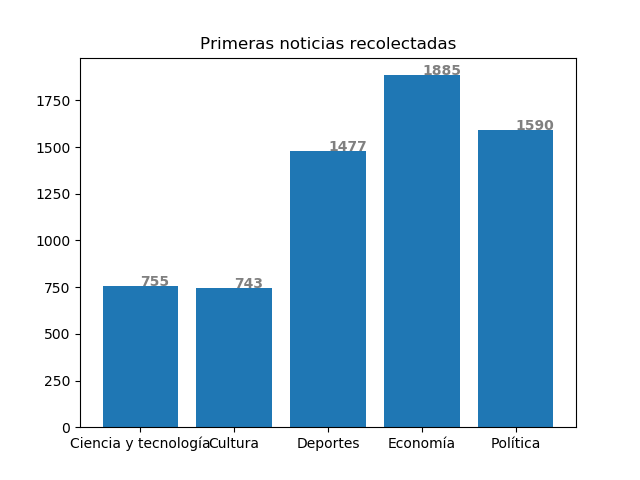
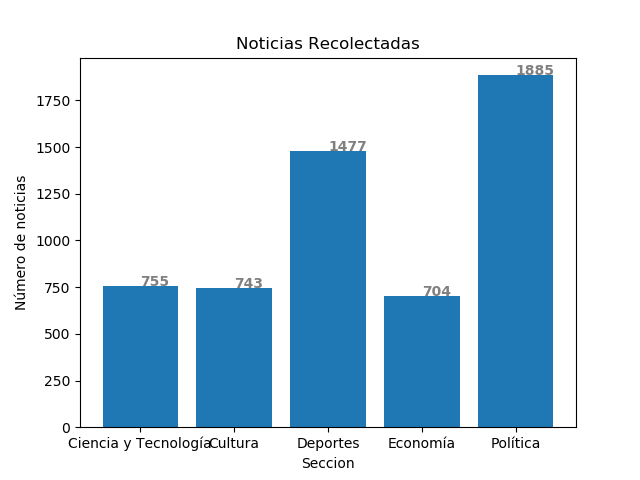
Capitulo 5.1 en espera de revision

diff --git a/Analisis/DocumentoAnalisis/Capitulos/Capitulo5-ImplementacionPruebas/1.Proceso-Recoleccion.tex b/Analisis/DocumentoAnalisis/Capitulos/Capitulo5-ImplementacionPruebas/1.Proceso-Recoleccion.tex
@@ -1,67 +1,129 @@
 \section{Recolección}
 
 %-------------------------------Recolección----------------------------------------------%
-%-----------------------------Chcecar TT1------------------------
 
-El proceso de recolección es parte fundamental del presente trabajo terminal, ya que permitió conformar el corpus necesario para llevar a cabo la etapa de entrenamiento, este proceso se llevo a cabo por etapas.
+El proceso de recolección es parte fundamental del presente trabajo terminal, ya que permitió conformar el corpus utilizado en la etapa de entrenamiento, la Figura \ref{fig:etapRecoleccion} muestra las etapas que se desarrollaron durante el proceso de recolección.\\
 
-\begin{itemize}
-	\item Seleccionar los sitios web
-	\item Información a recolectar
-	\item Análisis del sitio web
-	\item Proceso de recolección
-\end{itemize}
+\begin{figure}[H]
+	\centering
+	\includegraphics[scale=.30]{imagenes/Capitulo5/etapasRecoleccion.png}
+	\caption{Etapas de la recolección}
+	\label{fig:etapRecoleccion}
+\end{figure}
 
 \subsection{Selección de sitios web}
 
 El sitio web El Economista\footnote{https://www.eleconomista.com.mx/} contiene una sección llamada 
-\textbf{Ranking de Medios Nativos Digitales}\footnote{https://www.eleconomista.com.mx/Ranking-de-Medios-Nativos-Digitales}, 
-el cual muestra las estadísticas que realiza mes con mes acerca de los sitios de noticias web más consultados como se muestra en la Figura \textbf{\ref{fig:rank}}
+\textbf{Ranking de Medios Nativos Digitales}\footnote{https://www.eleconomista.com.mx/Ranking-de-Medios-Nativos-Digitales}, el cual muestra las estadísticas que realiza mes con mes acerca de los sitios de noticias web más consultados como se muestra en la Figura \ref{fig:rank}\\
+
 \begin{figure}[H]
   \centering
-  \includegraphics[scale=.28]{imagenes/Capitulo5/ranking.png}
+  \includegraphics[scale=.32]{imagenes/Capitulo5/ranking.png}
   \caption{Ranking de sitios de noticias del periódo de enero del 2018 a enero del 2019.}
   \label{fig:rank}
 \end{figure}
 
-Con base en la Figura  se han seleccionado los diarios Aristegui Noticias, El Economista, La Jornada, La Prensa, Proceso, Sopitas y TV Azteca para recolectar noticias.
-
 \Tlabel{c5:sitios}
+Con base en la Figura \ref{fig:rank} se han seleccionado los diarios Aristegui Noticias, El Economista, La Jornada, La Prensa, Proceso, Sopitas y TV Azteca para recolectar noticias. Los sitios organizan las noticias por secciones, lo cual permite una búsqueda más rápida de la información, la Tabla \textbf{\ref{tabla:sitios}}. muestra el análisis realizado a las secciones contenidas en los sitios seleccionados.
+\\
+\begin{table}[H]
+    \centering
+    \resizebox{\columnwidth}{!}{%
+    \begin{tabular}[H]{|c|c|c|c|c|c|c|c|}
 
-\subsection{Información recolectada}
+ \multicolumn{1}{| >{\columncolor{myBlueChapter}}c|}{ \textcolor{myWhite}{\textbf{Sección}} }
+&\multicolumn{1}{| >{\columncolor{myBlueChapter}}c|}{ \textcolor{myWhite}{\textbf{Aristegui}} }
+&\multicolumn{1}{| >{\columncolor{myBlueChapter}}c|}{ \textcolor{myWhite}{\textbf{El}} }
+&\multicolumn{1}{| >{\columncolor{myBlueChapter}}c|}{ \textcolor{myWhite}{\textbf{La}} }
+&\multicolumn{1}{| >{\columncolor{myBlueChapter}}c|}{ \textcolor{myWhite}{\textbf{La}} }
+&\multicolumn{1}{| >{\columncolor{myBlueChapter}}c|}{ \textcolor{myWhite}{\textbf{Proceso}} }
+&\multicolumn{1}{| >{\columncolor{myBlueChapter}}c|}{ \textcolor{myWhite}{\textbf{Sopitas}} }
+&\multicolumn{1}{| >{\columncolor{myBlueChapter}}c|}{ \textcolor{myWhite}{\textbf{Azteca}} }
+  \\ \cline{1-8}
+%---------------------------------------------------------------------------------------%
+ \multicolumn{1}{| >{\columncolor{myBlueChapter}}c|}{ }
+&\multicolumn{1}{| >{\columncolor{myBlueChapter}}c|}{ \textcolor{myWhite}{\textbf{Noticias}} }
+&\multicolumn{1}{| >{\columncolor{myBlueChapter}}c|}{ \textcolor{myWhite}{\textbf{Economista}} }
+&\multicolumn{1}{| >{\columncolor{myBlueChapter}}c|}{ \textcolor{myWhite}{\textbf{Jornada}} }
+&\multicolumn{1}{| >{\columncolor{myBlueChapter}}c|}{ \textcolor{myWhite}{\textbf{Prensa}} }
+&\multicolumn{1}{| >{\columncolor{myBlueChapter}}c|}{ }
+&\multicolumn{1}{| >{\columncolor{myBlueChapter}}c|}{ }
+&\multicolumn{1}{| >{\columncolor{myBlueChapter}}c|}{ \textcolor{myWhite}{\textbf{Noticias}} }
+\\ \cline{1-8}
 
-Se llevó a cabo un análisis acerca de la información que contiene cada una de las noticias y con base en ello se determinó recolectar la siguiente información:
+%---------------------------------------------------------------------------------------%
 
-\begin{itemize}
-	\item URL de la noticia
-	\item Título
-	\item Fecha
-	\item Sección
-	\item Autor
-	\item Descripción
-	\item Noticia
-\end{itemize}
+        Nacional & México & Urbes y & - & México & Nacional & Noticias & -\\ 
+         &  & Estados & & & & &\\
+        \hline
+%---------------------------------------------------------------------------------------%
 
-Cabe destacar que no toda la información recuperada fue utilizada en el proceso de entrenamiento, sin embargo se considerarón los puntos anteriores ya que la mayor parte de las noticias cuentan con esa información.
-%-----------------------------Chcecar TT1------------------------
+        Internacional & Mundo & The Washington & Mundo & Mundo & Internacional & - & Internacional\\
+         & & Post & & & & &\\
+        \hline
+%---------------------------------------------------------------------------------------%
+
+        Ciudad & - & Urbes y & CDMX & Metrópoli & La Capital& - & -\\ 
+         &  & Estados & & & & & \\
+        \hline
+%---------------------------------------------------------------------------------------%
+
+        Estados & México & Urbes y & Estados & República & Estados & - & Estados\\ 
+         &  & Estados & & & & & \\
+        \hline
+%---------------------------------------------------------------------------------------%
+
+        Economía & Economía & Valores y & Economía & - & - & - & Finanzas\\ 
+         &  & Dinero & & & & & \\
+        \hline
+%---------------------------------------------------------------------------------------%
+
+        Deportes & Deportes & DxT & Deportes & Deportes & Deportes & Deportes & Deportes\\ 
+        \hline
+%---------------------------------------------------------------------------------------%
+
+        Espectáculos & - & - & Espectáculos & Gossip & Miscelánea &  En el show & Entretenimiento\\ 
+        \hline
+%---------------------------------------------------------------------------------------%
+
+        Cultura & - & Artes, Ideas & Cultura & - & Cultura & - & -\\ 
+         &  & Gente & & & & &\\ 
+        \hline
+%---------------------------------------------------------------------------------------%
+
+        Política & Poderes & - & Política & - & Política & - & Política\\ 
+        \hline
+%---------------------------------------------------------------------------------------%
+
+        Ciencia y & - & Política y & Tecnología & - & Tecnología  & Geek & Geek\\ 
+        tecnología &  & Sociedad & & & & &  \\ 
+        \hline        
+
+    \end{tabular}%
+}
+\caption[Secciones de los sitios web]{Secciones existentes en los sitios web}
+\label{tabla:sitios}
+\end{table}
 
 %------------------------------------------- Listo
 \subsection{Análisis de sitios web}
 
-Una vez definida la información requerida de cada noticia se realizó un análisis sobre la estructura HTML de cada sitio web, con el fin de realizar expresiones \textit{XPath} quien permitie recorrer y procesar un documento XML, dado que cada sitio web cuenta con una estructura diferente, ha sido necesario realizar el análisis individual. Cabe mencionar que existen sitios los cuales realizan actualizaciones a su página, por esta razón cada dos meses se analizaban, con el fin de verificar que la estructura XML no cambiara.
-\\
-Una expresión \textit{XPath} de ruta permite buscar y seleccionar los distintos nodos de un documento XML(ver). En el siguiente Cuadro \ref{box:xmlEjemplo} se muestra un ejemplo con los elementos de una nota, los cuales son: \textbf{para} \textbf{de} \textbf{titulo} \textbf{texto}, en un documento XML estos son los nodos que conforman una nota.\\
+Una vez definida la información requerida de cada noticia se realizó un análisis sobre la estructura XML (\textit{Extensible Markup Language}), por sus siglas en inglés, con el fin de realizar expresiones \textit{XPath} que permiten recorrer y procesar un documento XML, dado que cada sitio web cuenta con una estructura diferente, ha sido necesario realizar el análisis individual. Cabe mencionar que existen sitios los cuales realizan actualizaciones a su página, por esta razón cada dos meses se analizaban, con el fin de verificar que la estructura XML no cambiara.\\
 
-\begin{mygraybox}[label={box:xmlEjemplo}]{Documento XML} 
-<nota>\\
-	<para>Daniel</para>\\
-	<de>Andres</de>\\
-	<titulo>Recordatorio</titulo>\\
-	<texto>Recuerda despertar temprano.</texto>\\
+Una expresión \textit{XPath} de ruta permite buscar y seleccionar los distintos nodos de un documento XML(ver). En el siguiente Cuadro \ref{box:xmlEjemplo} se muestra un ejemplo con los elementos de una nota, los cuales son: \textbf{para}, \textbf{de}, \textbf{titulo}, \textbf{texto}, en un documento XML estos son los nodos que conforman una nota.\\
+
+\begin{mygraybox}[label={box:xmlEjemplo}]{Documento XML}
+\begin{tabbing}
+<nota> \= \\\kill
+\>	<para>Daniel</para>\\
+\>	<de>Andres</de>\\
+\>	<titulo>Recordatorio</titulo>\\
+\>	<texto>Recuerda despertar temprano.</texto>\\
 </nota>
+\end{tabbing}
 \end{mygraybox}
 
-La expresión \textit{XPath} que permite extraer el contenido de la etiqueta \textbf{<texto> </texto>} se muestra en el Cuadro \ref{box:xpathEjemplo}: 
+La expresión \textit{XPath} que permite extraer el contenido de la etiqueta \textbf{<texto> </texto>} se muestra en el Cuadro \ref{box:xpathEjemplo}: \\
 
 \begin{mygraybox}[label={box:xpathEjemplo}]{Expresión XPath} 
 \textbf{/nota/texto/text()}
@@ -70,10 +132,9 @@ La expresión \textit{XPath} que permite extraer el contenido de la etiqueta \te
 Para cada sitio web se crearon expresiones \textit{XPath} para recolectar el contenido.
 
 %------------------------------------------- Listo
-\subsection{Creación de recolectores}
+\subsection{Creación de recolector}
 
 Como se explicó en el capítulo 3 (ver\ref{c3:Crawler}) un \textit{Crawler} te permite descargar información de una página web, como se muestra en la Figura \ref{Fig:recoleccion}. La implementación en el trabajo terminal ha requerido diseñar 7 recolectores, uno por cada sitio web (ver \Tref{c5:sitios}{sitios web}). \\
-
 
 \begin{figure}[H]
 	\centering
@@ -82,7 +143,42 @@ Como se explicó en el capítulo 3 (ver\ref{c3:Crawler}) un \textit{Crawler} te 
 	\label{Fig:recoleccion}
 \end{figure}
 
-Para el desarrollo se ha utilizado el lenguaje de programación \textbf{Python3}, en conjunto con la librería \textbf{scrapycrawl}. Cabe destacar que las noticias recolectadas se almacenaron en un archivo CSV (ver\ref{}) con la estructura que se muestra en la Tabla \ref{tab:csv}, donde la primera fila (Encabezado) define los elementos de este archivo, además las filas consecuentes representan el contenido recolectado de cada noticia.\\
+El desarrollo del presente trabajo terminal se ha realizado en sistema operativo \textit{Linux} en su distribución Ubuntu, paa realizar la creación de los recolectores se ha utilizado el lenguaje de programación \textbf{Python 3}\footnote{https://www.python.org/}, en conjunto con \textbf{Scrapy}\footnote{https://scrapy.org/}, el cual es un framework que permite la extracción de información de sitios web. 
+\\
+El siguiente Cuadro \ref{box:libIns}, muestra los comandos utilizados para instalar las librerías utilizadas.\\
+\begin{mygraybox}[label={box:libIns}]{Comandos para instalar librerías utilizadas}
+\begin{verbatim}
+$ sudo apt-get install python3.6
+$ pip install Scrapy
+\end{verbatim}
+\end{mygraybox}
+
+La información que ha sido recuperada de las noticias se muestra a continuación:
+\begin{itemize}
+	\item \textbf{url}: La dirección web donde se encuentra localizada la noticia 
+	\item \textbf{título}: Encabezado de la noticia recolectada
+	\item \textbf{autor}: Es el nombre de la persona que redacto la noticia o el nombre de la editorial
+	\item \textbf{fecha}: Es la fecha en la cual la noticia ha sido publicada
+	\item \textbf{descripción}: Es una idea general del contenido de la noticia. Cabe mencionar que no todas las noticias cuentan con una descripción
+	\item \textbf{noticia}: Es la redacción realizada por el autor acerca de la noticia. Es de relevancia mencionar que este elemento más importante de los artículos decargados 
+\end{itemize}
+
+Cada uno de los recolectores contenia expresiones \textit{XPath} que permitían recolectar la información de cada noticia, el Cuadro \ref{box:crawlerEjemplo} muestra un ejemplo de las expresiones \textit{XPath} utilizadas para recolectar noticias del sitio web Aristegui Noticias\footnote{https://aristeguinoticias.com/}\\
+
+\begin{mygraybox}[label={box:crawlerEjemplo}]{Ejemplo de expresiones \textit{XPath} del sitio Aristegui Noticias}
+\begin{small}
+\begin{verbatim}
+url= url
+titulo = //div[@class="class_subtitular"]/h1/text()
+autor = //div[@class="share_nom"]/text()
+fecha = //div[@class="share_publicado"]/text()
+descripcion = //div[@class="class_text2"]/text())
+noticia = //div[@class="class_text"]/p/child::node()/text()
+\end{verbatim}
+\end{small}
+\end{mygraybox}
+
+Cabe destacar que las noticias recolectadas se almacenaron en un archivo CSV (ver\ref{}) con la estructura que se muestra en la Tabla \ref{tab:csv}, donde la primera fila (Encabezado) define los elementos de este archivo, además las filas consecuentes representan el contenido recolectado de cada noticia.\\
 
 %\begin{mygraybox}[label={box:csv}]{Encabezado de un archivo CSV}
 \begin{table}[H]
@@ -103,18 +199,7 @@ url ejemplo 2& título ejemplo 2& autor ejemplo 2& fecha ejemplo 2& descripción
 \end{table}
 %\end{mygraybox}
 
-donde :
-\begin{itemize}
-	\item \textbf{url}: La dirección web donde se encuentra localizada la noticia 
-	\item \textbf{título}: Encabezado de la noticia recolectada
-	\item \textbf{autor}: Es el nombre de la persona que redacto la noticia o el nombre de la editorial
-	\item \textbf{fecha}: Es la fecha en la cual la noticia ha sido publicada
-	\item \textbf{descripción}: Es una idea general del contenido de la noticia. Cabe mencionar que no todas las noticias cuentan con una descripción
-	\item \textbf{noticia}: Es la redacción realizada por el autor acerca de la noticia. Es de relevancia mencionar que este elemento más importante de los artículos decargados 
-\end{itemize}
-
-\subsection{Proceso de recolección de noticias}
-
+\subsection{Recolección de noticias}
 
 Para el desarrollo de esta etapa, se recolectaron noticias de las secciones : \textbf{ciencia y tecnología}, \textbf{cultura}, \textbf{deportes}, \textbf{economía} y \textbf{política}, de los sitios web \textbf{Aristegui Noticias}, \textbf{El Economista}, \textbf{La Jornada}, \textbf{La Prensa}, \textbf{Proceso}, \textbf{Sopitas} y \textbf{TV Azteca}, durante el periodo de julio a septiembre cada cuatro días, con el fin de no tener noticias repetidas. El almacenamiento de las noticias se realizó en un directorio por sección, dentro de cada uno de estos se dividian las noticias recolectadas por sitio web. 
 \\
@@ -128,67 +213,71 @@ Una vez finalizada la primera etapa de recolección, los resultados obtenidos po
 	\label{Fig:notseccionV1}
 \end{figure}
 
-Cabe destacar que el número de noticias no se encontraba balanceado debido a que no exite un gran número de sitios que publiquen noticias de cultura, por ello se decidió continuar con el proceso de recolección de noticias, con el fin de balancear el corpus y así los resultados obtenidos en la práctica mejoraron.
+Cabe destacar que el número de noticias recolectadas durante el primer corte, no se encontraba balanceado, por ello se decidió continuar con el proceso de recolección de noticias, con el fin de balancear el corpus.
 \\
-Una vez finalizada la segunda etapa de recolección el número de noticias se muestra en la Figura \ref{Fig:notseccion}
+Una vez finalizada la segunda etapa de recolección el número de noticias se muestra en la Figura \ref{Fig:notseccion} 
 
 \begin{figure}[H]
 	\centering
-	\includegraphics[scale=.6]{imagenes/Capitulo5/noticiasPorSeccion.png}
-	\caption{Numero total de noticias recolectadas por sección.}
+	\includegraphics[scale=.6]{imagenes/Capitulo5/noticiasPorSeccionV2.png}
+	\caption{Noticias recolectadas al finalizar el segundo corte.}
 	\label{Fig:notseccion}
 \end{figure}
 
-Los noticias recuperadas por cada sitio web, se muestran en las siguientes Figuras.
-\\
+Los resultados que obtuvimos por sitio web se muestran en la Figura \ref{Fig:notPorSit} 
 
 \begin{figure}[H]
 	\centering
-	\includegraphics[scale=.45]{imagenes/Capitulo5/aristegui.png}
-	\caption{Total de noticias recolectadas del sitio web de Aristegui Noticias}
-	\label{Fig:notsitioaristegui}
+	\includegraphics[scale=.6]{imagenes/Capitulo5/noticiasPorSitio.png}
+	\caption{Noticias recolectadas por sitio web al finalizar el segundo corte}
+	\label{Fig:notPorSit}
 \end{figure}
 
-\begin{figure}[H]
-	\centering
-	\includegraphics[scale=.45]{imagenes/Capitulo5/azteca.png}
-	\caption{Total de noticias recolectadas del sitio web de Azteca Noticias}
-	\label{Fig:notsitioazteca}
-\end{figure}
 
-\begin{figure}[H]
-	\centering
-	\includegraphics[scale=.45]{imagenes/Capitulo5/economista.png}
-	\caption{Total de noticias recolectadas del sitio web de El Economista}
-	\label{Fig:notsitioeconomista}
-\end{figure}
+Los noticias recuperadas por cada sitio web, se muestran en la siguiente Tabla \ref{tabla:sitios}.
 
-\begin{figure}[H]
-	\centering
-	\includegraphics[scale=.45]{imagenes/Capitulo5/jornada.png}
-	\caption{Total de noticias recolectadas del sitio web de La Jornada}
-	\label{Fig:notsitiojornada}
-\end{figure}
+\begin{table}[H]
+\begin{tabular}{|l|l|l|}
+\hline
+Sitio                               & Sección              & Número de Noticias \\ \hline
+\multirow{5}{*}{Aristegui Noticias} & Ciencia y Tecnología & 99                 \\ \cline{2-3} 
+                                    & Cultura              & 179                \\ \cline{2-3} 
+                                    & Deportes             & 308                \\ \cline{2-3} 
+                                    & Economía             & 161                \\ \cline{2-3} 
+                                    & Política             & 248                \\ \hline
+\multirow{5}{*}{Azteca Noticias}    & Ciencia y Tecnología & 986                \\ \cline{2-3} 
+                                    & Cultura              & 0                  \\ \cline{2-3} 
+                                    & Deportes             & 280                \\ \cline{2-3} 
+                                    & Economía             & 77                 \\ \cline{2-3} 
+                                    & Política             & 350                \\ \hline
+\multirow{5}{*}{El Economista}      & Ciencia y Tecnología & 18                 \\ \cline{2-3} 
+                                    & Cultura              & 267                \\ \cline{2-3} 
+                                    & Deportes             & 214                \\ \cline{2-3} 
+                                    & Economía             & 201                \\ \cline{2-3} 
+                                    & Política             & 236                \\ \hline
+\multirow{5}{*}{La Jornada}         & Ciencia y Tecnología & 4                  \\ \cline{2-3} 
+                                    & Cultura              & 424                \\ \cline{2-3} 
+                                    & Deportes             & 284                \\ \cline{2-3} 
+                                    & Economía             & 512                \\ \cline{2-3} 
+                                    & Política             & 659                \\ \hline
+\multirow{5}{*}{La Prensa}          & Ciencia y Tecnología & 68                 \\ \cline{2-3} 
+                                    & Cultura              & 90                 \\ \cline{2-3} 
+                                    & Deportes             & 93                 \\ \cline{2-3} 
+                                    & Economía             & 118                \\ \cline{2-3} 
+                                    & Política             & 77                 \\ \hline
+\multirow{5}{*}{Proceso}            & Ciencia y Tecnología & 65                 \\ \cline{2-3} 
+                                    & Cultura              & 13                 \\ \cline{2-3} 
+                                    & Deportes             & 335                \\ \cline{2-3} 
+                                    & Economía             & 0                  \\ \cline{2-3} 
+                                    & Política             & 112                \\ \hline
+\multirow{5}{*}{Sopitas}            & Ciencia y Tecnología & 549                \\ \cline{2-3} 
+                                    & Cultura              & 265                \\ \cline{2-3} 
+                                    & Deportes             & 171                \\ \cline{2-3} 
+                                    & Economía             & 0                  \\ \cline{2-3} 
+                                    & Política             & 244                \\ \hline
+\end{tabular}
+\caption[Noticias recolectadas por sitio web]{Número de noticias recolectadas por sección de los sitios web}
+\label{tabla:numNotic}
+\end{table}
 
-\begin{figure}[H]
-	\centering
-	\includegraphics[scale=.45]{imagenes/Capitulo5/prensa.png}
-	\caption{Total de noticias recolectadas del sitio web de La Prensa}
-	\label{Fig:notsitioprensa}
-\end{figure}
-
-\begin{figure}[H]
-	\centering
-	\includegraphics[scale=.45]{imagenes/Capitulo5/proceso.png}
-	\caption{Total de noticias recolectadas del sitio web de Proceso}
-	\label{Fig:notsitioproceso}
-\end{figure}
-
-\begin{figure}[H]
-	\centering
-	\includegraphics[scale=.45]{imagenes/Capitulo5/sopitas.png}
-	\caption{Total de noticias recolectadas del sitio web de Sopitas}
-	\label{Fig:notsitiosopitas}
-\end{figure}
-
-Una vez concluida la recolección de noticias se procedió con el balanceo de noticias quedando un total de 700 noticias por sección.	
+Una vez concluida la recolección de noticias se procedió con eliminar aquellas noticias que hayan sido duplicadas
